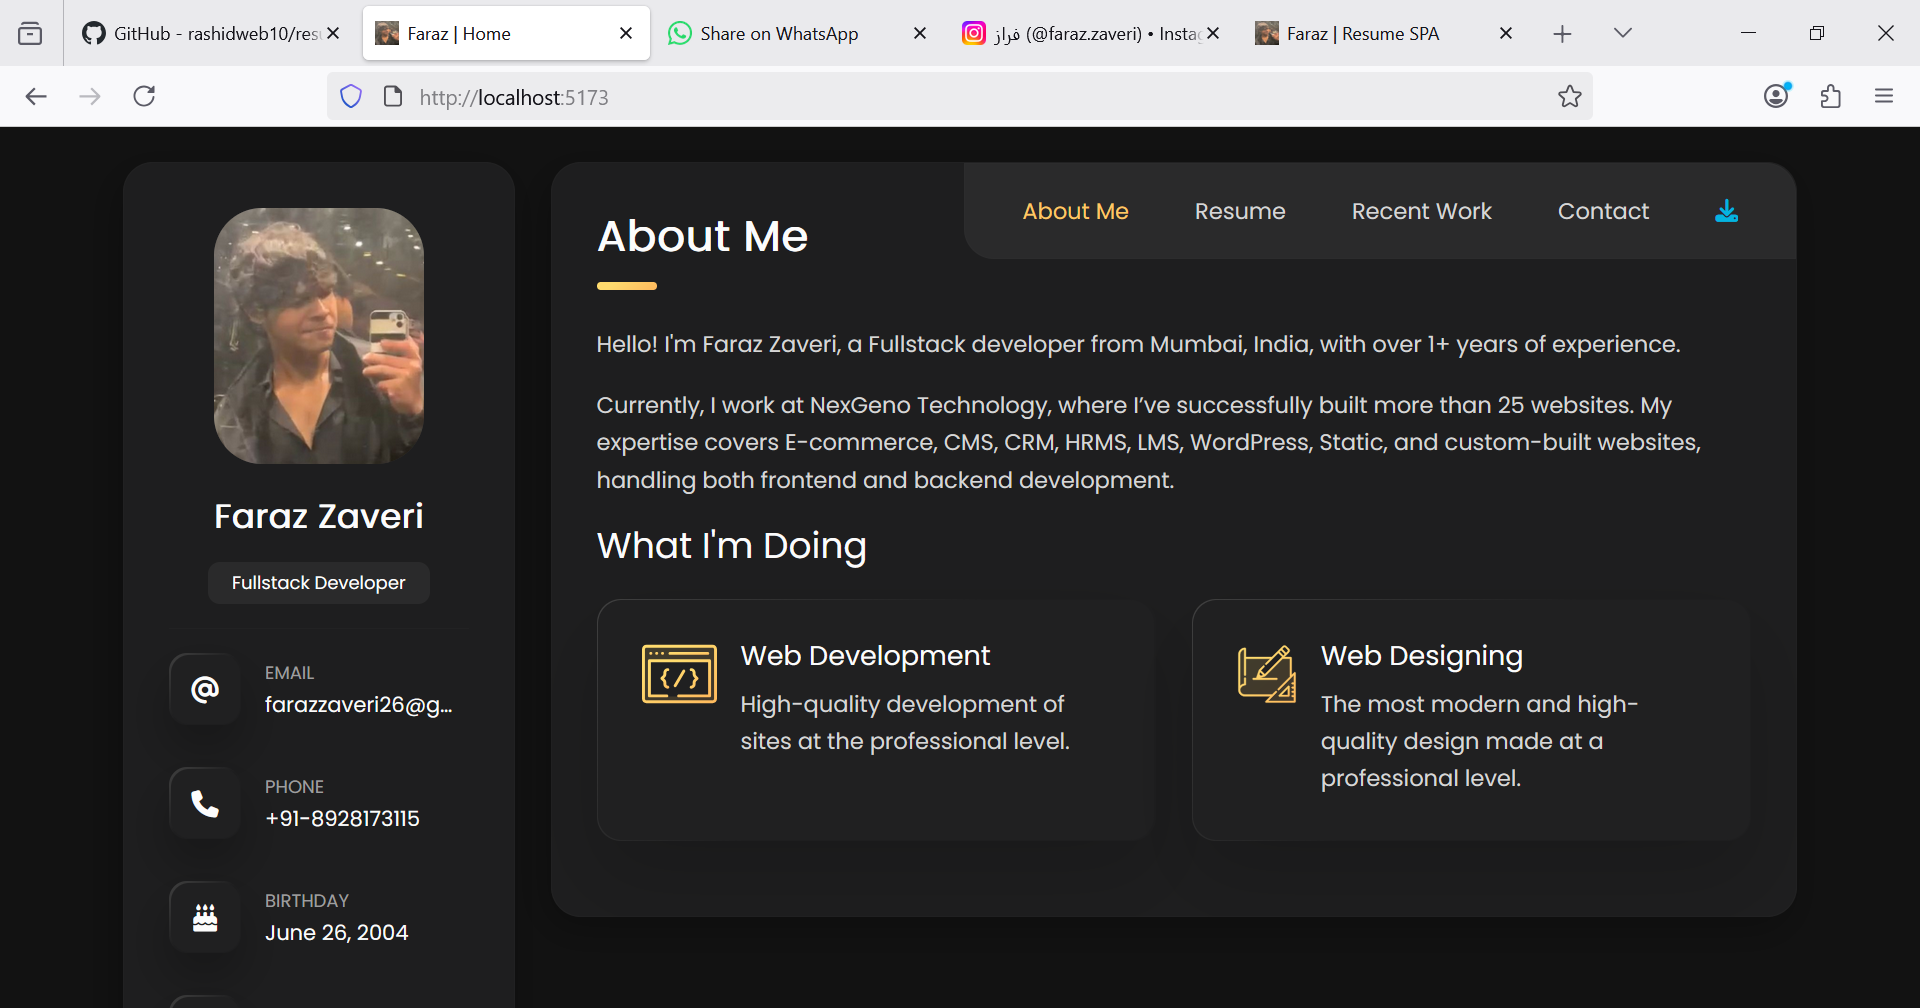
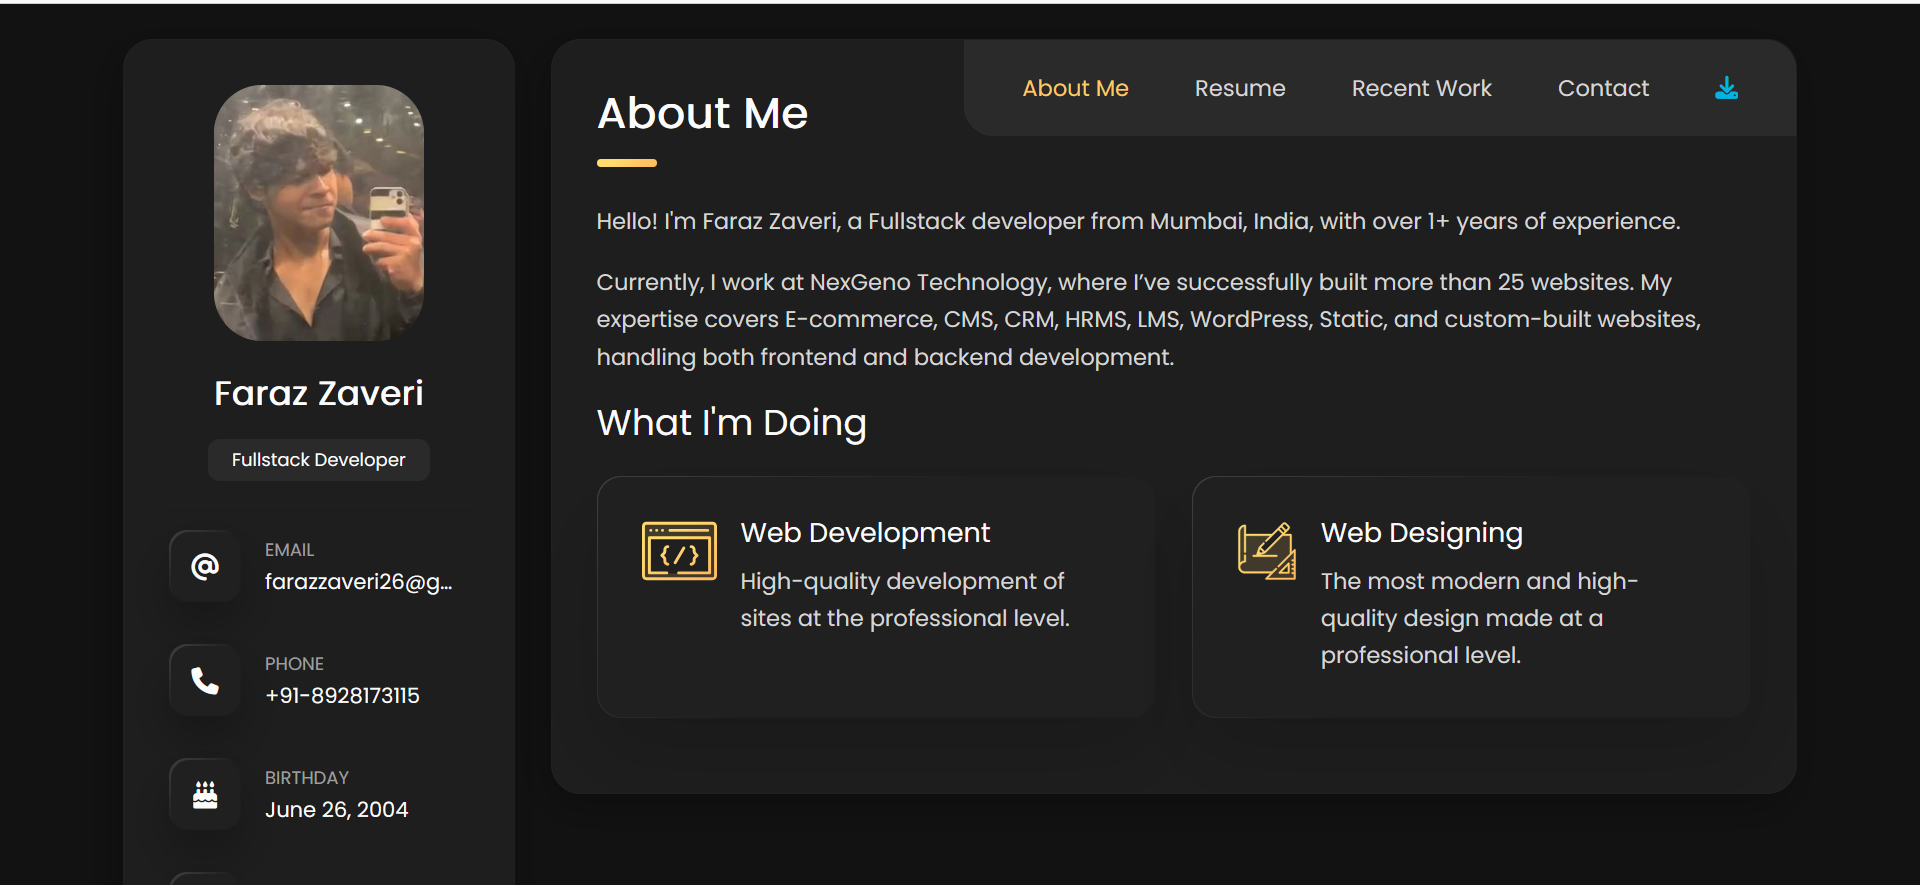
project additions

diff --git a/pages/api/sendemail.js b/pages/api/sendemail.js
@@ -1,30 +1,30 @@
-// /pages/api/send-email.js
-import { Resend } from 'resend';
+// // /pages/api/send-email.js
+// import { Resend } from 'resend';
 
-const resend = new Resend(process.env.RESEND_API_KEY);
+// const resend = new Resend(process.env.RESEND_API_KEY);
 
-export default async function handler(req, res) {
-  if (req.method !== 'POST') {
-    return res.status(405).json({ error: 'Method not allowed' });
-  }
+// export default async function handler(req, res) {
+//   if (req.method !== 'POST') {
+//     return res.status(405).json({ error: 'Method not allowed' });
+//   }
 
-  const { name, email, message } = req.body;
+//   const { name, email, message } = req.body;
 
-  try {
-    const data = await resend.emails.send({
-      from: 'Faraz Portfolio <onboarding@resend.dev>', // must be a verified sender or domain
-      to: ['farazzaveri26@gmail.com'],
-      subject: 'New message from your portfolio',
-      html: `
-        <p><strong>Name:</strong> ${name}</p>
-        <p><strong>Email:</strong> ${email}</p>
-        <p><strong>Message:</strong><br>${message}</p>
-      `,
-    });
+//   try {
+//     const data = await resend.emails.send({
+//       from: 'Faraz Portfolio <onboarding@resend.dev>', // must be a verified sender or domain
+//       to: ['farazzaveri26@gmail.com'],
+//       subject: 'New message from your portfolio',
+//       html: `
+//         <p><strong>Name:</strong> ${name}</p>
+//         <p><strong>Email:</strong> ${email}</p>
+//         <p><strong>Message:</strong><br>${message}</p>
+//       `,
+//     });
 
-    return res.status(200).json({ success: true, data });
-  } catch (error) {
-    console.error('❌ Email send error:', error);
-    return res.status(500).json({ success: false, error: error.message });
-  }
-}
+//     return res.status(200).json({ success: true, data });
+//   } catch (error) {
+//     console.error('❌ Email send error:', error);
+//     return res.status(500).json({ success: false, error: error.message });
+//   }
+// }

diff --git a/src/views/ResumeView.vue b/src/views/ResumeView.vue
@@ -186,9 +186,9 @@ export default {
         },
         {
           id: 1,
-          title: "Data Analyst",
+          title: "Data Analyst(Intern)",
           desc: "At Imperial Digital Solutions.",
-          year: "2024",
+          year: "2024(3 months)",
         },
        
       ],
